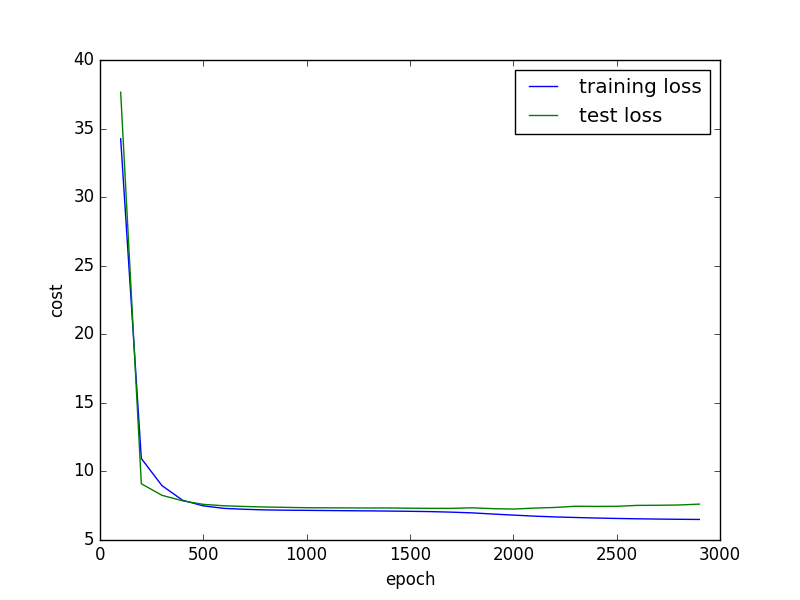
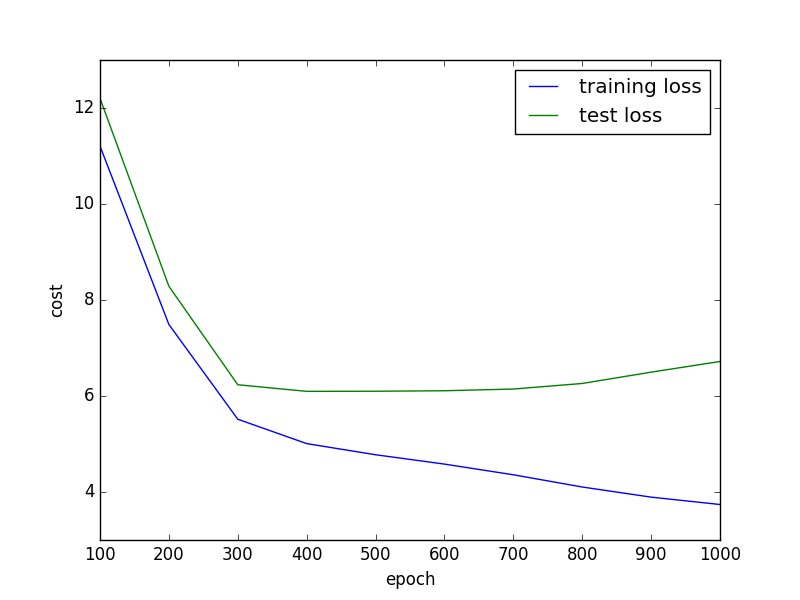
use preprocessed dataset for regression nn

diff --git a/nn/regression.py b/nn/regression.py
@@ -1,3 +1,5 @@
+#!/usr/bin/env python
+
 import numpy as np
 import tensorflow as tf
 import matplotlib.pyplot as plt
@@ -16,7 +18,7 @@ def load_csv(filename):
     return data
 
 
-data = load_csv('../dataset/student-por.csv')
+data = load_csv('../dataset/student-por-preprocessed.csv')
 
 # Split dataset into testing and training set
 random.shuffle(data)
@@ -29,65 +31,26 @@ print "Training Set:", len(train_set), "items"
 
 
 # Sort test set by dependant variable to look nice on chart
-test_set.sort(key=lambda x: int(x[-1]))
-train_set.sort(key=lambda x: int(x[-1]))
+test_set.sort(key=lambda x: float(x[-1]))
 
 
 # Separate inputs and outputs
-x_test = [ x[:30] for x in test_set ]
-y_test = [ [int(x[-1])] for x in test_set ]
-x_train = [ x[:30] for x in train_set ]
-y_train = [ [int(x[-1])] for x in train_set ]
-
-
-
-def preprocess_row(row):
-    row[0] = (row[0] == 'GP') # school
-    row[1] = (row[1] == 'M') # sex
-    row[2] = int(row[2]) # age
-    row[3] = (row[3] == 'U') # address
-    row[4] = (row[4] == 'GT3') # famsize
-    row[5] = (row[5] == 'T') # Pstatus
-    row[6] = int(row[6]) # Medu
-    row[7] = int(row[7]) # Fedu
-    jobs = ['teacher', 'health', 'services', 'at_home', 'other']
-    row[8] = jobs.index(row[8]) # Mjob
-    row[9] = jobs.index(row[9]) # Fjob
-    reasons = ['home', 'reputation', 'course', 'other']
-    row[10] = reasons.index(row[10]) # reason
-    guardians = ['mother', 'father', 'other']
-    row[11] = guardians.index(row[11]) # guardian
-    row[12] = int(row[12]) # traveltime
-    row[13] = int(row[13]) # studytime
-    row[14] = int(row[14]) # failures
-    row[15] = (row[15] == 'yes') # schoolsup
-    row[16] = (row[16] == 'yes') # famsup
-    row[17] = (row[17] == 'yes') # paid
-    row[18] = (row[18] == 'yes') # activities
-    row[19] = (row[19] == 'yes') # nursery
-    row[20] = (row[20] == 'yes') # higher
-    row[21] = (row[21] == 'yes') # internet
-    row[22] = (row[22] == 'yes') # romantic
-    row[23] = int(row[22]) # famrel
-    row[24] = int(row[22]) # freetime
-    row[25] = int(row[22]) # goout
-    row[26] = int(row[22]) # Dalc
-    row[27] = int(row[22]) # Walc
-    row[28] = int(row[22]) # health
-    row[29] = int(row[22]) # absences
-    return row
+x_test = [ x[:35] for x in test_set ]
+y_test = [ [float(x[-1])] for x in test_set ]
+x_train = [ x[:35] for x in train_set ]
+y_train = [ [float(x[-1])] for x in train_set ]
 
 
 # Preprocess dataset
-x_test = [ preprocess_row(x) for x in x_test ]
-x_train = [ preprocess_row(x) for x in x_train ]
+#x_test = [ preprocess_row(x) for x in x_test ]
+#x_train = [ preprocess_row(x) for x in x_train ]
 
 #normalize(x_train, x_test)
 
 
 # Parameters
 learning_rate   = 0.001
-training_epochs = 3000
+training_epochs = 1000
 display_step    = 100
 
 
@@ -95,7 +58,7 @@ display_step    = 100
 n_hidden_1 = 15 # 1st layer num features
 n_hidden_2 = 15 # 2nd layer num features
 n_hidden_3 = 15 # 3nd layer num features
-n_input = 30 # data input
+n_input = 35 # data input
 n_output = 1
 
 
@@ -171,9 +134,17 @@ for epoch in range(training_epochs):
 
 train_loss = sess.run(cost, feed_dict={x: x_train, y: y_train})
 test_loss = sess.run(cost, feed_dict={x: x_test, y: y_test})
+training_costs.append(train_loss)
+test_costs.append(test_loss)
 print "Train Loss: ", train_loss
 print "Test Loss: ", test_loss
 print "Absolute Loss Difference: ", abs(test_loss - train_loss)
+
+
+# Sort train set by dependant variable to look nice on chart
+train_set.sort(key=lambda x_: float(x_[-1]))
+x_train = [ x_[:35] for x_ in train_set ]
+y_train = [ [float(x_[-1])] for x_ in train_set ]
 
 
 
@@ -205,9 +176,9 @@ plt.savefig('accuracy_test.png', format='png')
 
 plt.clf()
 
-skip_steps = 1
-plt.plot(range(display_step*skip_steps, training_epochs, display_step), training_costs[skip_steps:], label='training loss')
-plt.plot(range(display_step*skip_steps, training_epochs, display_step), test_costs[skip_steps:], label='test loss')
+
+plt.plot(range(display_step, training_epochs + display_step, display_step), training_costs[1:], label='training loss')
+plt.plot(range(display_step, training_epochs + display_step, display_step), test_costs[1:], label='test loss')
 plt.legend()
 plt.ylabel('cost')
 plt.xlabel('epoch')
